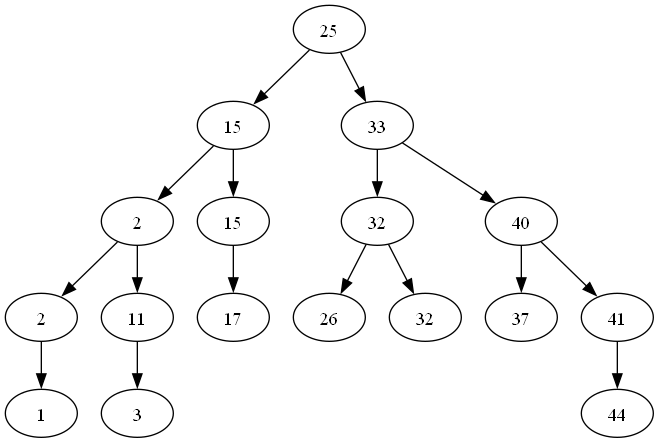
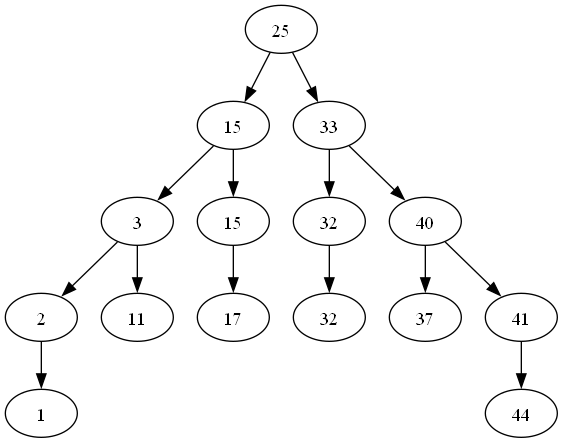
add delete methods in AVL Tree

diff --git a/advanced_data_structures/avl_tree_node_implementation.py b/advanced_data_structures/avl_tree_node_implementation.py
@@ -191,7 +191,7 @@ class AVLTree:
         curr_node = node
         while curr_node.right is not None:
             curr_node = curr_node.right
-        return curr_node.key
+        return curr_node
 
     def find_max(self, node=None):
         if not self.root:
@@ -204,7 +204,7 @@ class AVLTree:
         curr_node = node
         while curr_node.left is not None:
             curr_node = curr_node.left
-        return curr_node.key
+        return curr_node
 
     def find_min(self, node=None):
         if not self.root:
@@ -213,6 +213,28 @@ class AVLTree:
             return self._find_min(self.root)
         return self._find_min(node)
 
+    def _delete_node(self, node, key):
+        if node is None:
+            return node
+
+        if key < node.key:
+            node.left = self._delete_node(node.left, key)
+        elif key > node.key:
+            node.right = self._delete_node(node.right, key)
+        else:
+            if node.left is None:
+                return node.right
+            elif node.right is None:
+                return node.left
+            next_min_node = self._find_min(node.right)
+            node.key = next_min_node.key
+            node.right = self._delete_node(node.right, next_min_node.key)
+
+        self.update_height(node)
+        return self._rebalance(node)
+
+    def delete(self, key):
+        self.root = self._delete_node(self.root, key)
 
     # Tree Visualization Methods
     def _visualize(self, node, graph):
@@ -291,12 +313,14 @@ def run_test_client():
     avl_tree.insert(1)
     avl_tree.insert(44)
 
-
     min_elem = avl_tree.find_min()
     print(f"Minimum Element: {min_elem}")
 
     max_elem = avl_tree.find_max()
     print(f"Maximum Element: {max_elem}")
+
+    avl_tree.delete(26)
+    avl_tree.delete(2)
 
     avl_tree.visualize()
 
